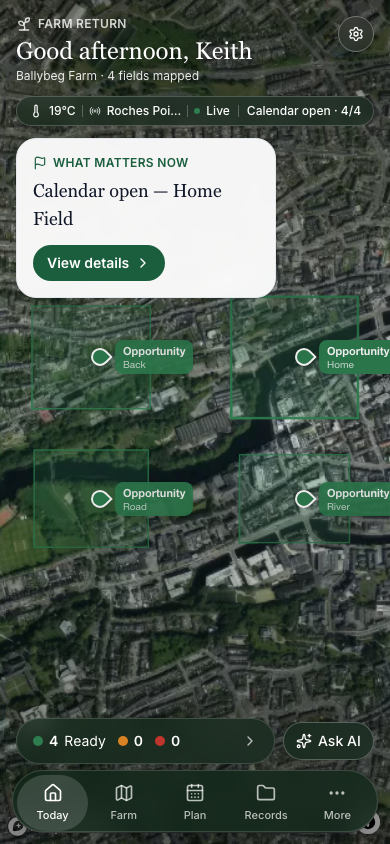
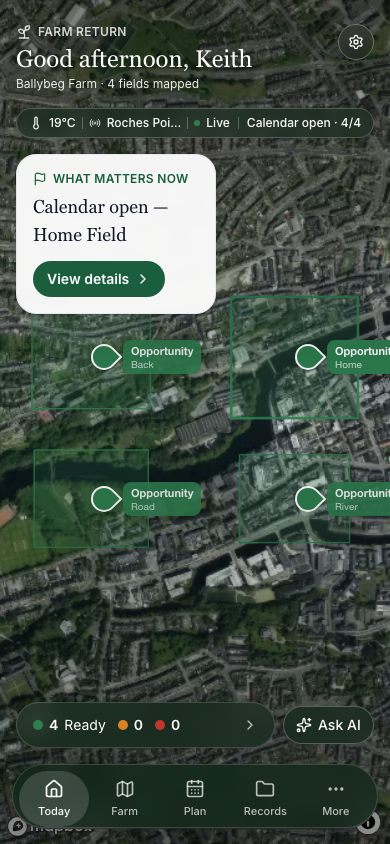
Strict Visual Reproduction round 2: narrower card, bigger pins, more breathing room
Codex visual audit round 2 (fidelity 7.8/10, PARTIAL, dashboard drift
LOW — same score, different findings than round 1, confirming round 1's
own fixes landed and surfaced the next real layer of composition gaps):

- High (composition): primary card still ~two-thirds of viewport width
  vs the reference's ~half. max-w-[260px] -> max-w-[200px].
- Medium (composition): pins "visually subordinate to the badges" —
  enlarged 18px -> 26px.
- Medium (composition): top cluster "denser... reference has more
  breathing room" — top padding 1rem -> 1.5rem, inter-item gap 3 -> 4.
- Low (cosmetic): bottom nav dock "shallower and closer to the screen
  edge" — inset bottom-3 -> bottom-4, padding py-1 -> py-1.5.

Not fixed (accepted, real-data limitation, consistent with this
session's own established precedent): "four similarly presented
Opportunity markers create a repetitive overlay band" — this farm's
real fields genuinely share the same real leading-Prompt status right
now; fabricating status variety to look more like the reference's own
illustrative mix would violate the no-fabrication rule. Also accepted:
NearbyFieldCard's real absence in this capture (no genuine GPS fix
reachable from headless Playwright) — the audit's own note already
calls this acceptable.

Quality gate (test/typecheck/lint/build) green: 116 files / 1509 tests
passing.

Claude-Session: https://claude.ai/code/session_017cs1M5kSyWgGzWDkWLoi48

diff --git a/src/app/(app)/today/page.tsx b/src/app/(app)/today/page.tsx
@@ -208,8 +208,8 @@ export default function TodayPage() {
               open photo with real pins visible in between, and this
               structure reproduces that literally rather than
               approximating it with fixed pixel offsets. */}
-          <div className="absolute inset-0 z-10 flex flex-col justify-between overflow-y-auto bg-gradient-to-b from-black/45 via-transparent to-black/45 p-4 pt-[max(env(safe-area-inset-top),1rem)] pb-20">
-            <div className="flex flex-col gap-3">
+          <div className="absolute inset-0 z-10 flex flex-col justify-between overflow-y-auto bg-gradient-to-b from-black/45 via-transparent to-black/45 p-4 pt-[max(env(safe-area-inset-top),1.5rem)] pb-24">
+            <div className="flex flex-col gap-4">
               <div className="flex items-start justify-between gap-3">
                 <div className="min-w-0">
                   <span className="mb-1 flex items-center gap-1.5 text-xs font-semibold uppercase tracking-wide text-white/80">
@@ -259,7 +259,7 @@ export default function TodayPage() {
                   card sits directly below the ambient strip, near the
                   top of the screen, not anchored to the bottom. */}
               {!mounted ? (
-                <div className="animate-pulse rounded-fr-card bg-fr-surface p-5 shadow-fr-card max-w-[260px]">
+                <div className="animate-pulse rounded-fr-card bg-fr-surface p-5 shadow-fr-card max-w-[200px]">
                   <div className="h-5 w-40 rounded bg-fr-surface-alt" />
                   <div className="mt-3 h-4 w-full rounded bg-fr-surface-alt" />
                 </div>
@@ -274,10 +274,10 @@ export default function TodayPage() {
                   // feel — a touch of real transparency + blur keeps it
                   // legible while it still reads as part of the same
                   // surface as everything else floating on the photo.
-                  className="max-w-[260px] bg-fr-surface/95 backdrop-blur-sm"
+                  className="max-w-[200px] bg-fr-surface/95 backdrop-blur-sm"
                 />
               ) : (
-                <div className="rounded-fr-card border border-fr-border bg-fr-surface p-5 shadow-fr-card max-w-[260px]">
+                <div className="rounded-fr-card border border-fr-border bg-fr-surface p-5 shadow-fr-card max-w-[200px]">
                   <p className="text-sm text-fr-ink-600">
                     {fields.length === 0
                       ? "Map a field to start seeing real Prompts here."

diff --git a/src/components/shell/MobileBottomNav.tsx b/src/components/shell/MobileBottomNav.tsx
@@ -38,7 +38,7 @@ export function MobileBottomNav() {
         className={cn(
           "fixed z-20 flex lg:hidden",
           overlay
-            ? "inset-x-3 bottom-3 rounded-full border border-white/15 bg-fr-green-900/70 px-1 py-1 shadow-lg backdrop-blur-md pb-[env(safe-area-inset-bottom)]"
+            ? "inset-x-3 bottom-4 rounded-full border border-white/15 bg-fr-green-900/70 px-1.5 py-1.5 shadow-lg backdrop-blur-md pb-[env(safe-area-inset-bottom)]"
             : "inset-x-0 bottom-0 border-t border-fr-border bg-fr-surface pb-[env(safe-area-inset-bottom)]",
         )}
         aria-label="Primary"

diff --git a/src/components/farm/MapHero.tsx b/src/components/farm/MapHero.tsx
@@ -345,7 +345,7 @@ export function MapHero({
       // classic rotated-square CSS pin) instead of a plain circle, its
       // own point aligned to the marker's anchor edge.
       const pin = document.createElement("span");
-      pin.className = "relative block size-[18px] shrink-0";
+      pin.className = "relative block size-[26px] shrink-0";
       const pinShape = document.createElement("span");
       pinShape.className = "absolute inset-0 rounded-tl-full rounded-tr-full rounded-bl-full border-[2px] border-white shadow-md";
       pinShape.style.backgroundColor = toneBg[tone];
